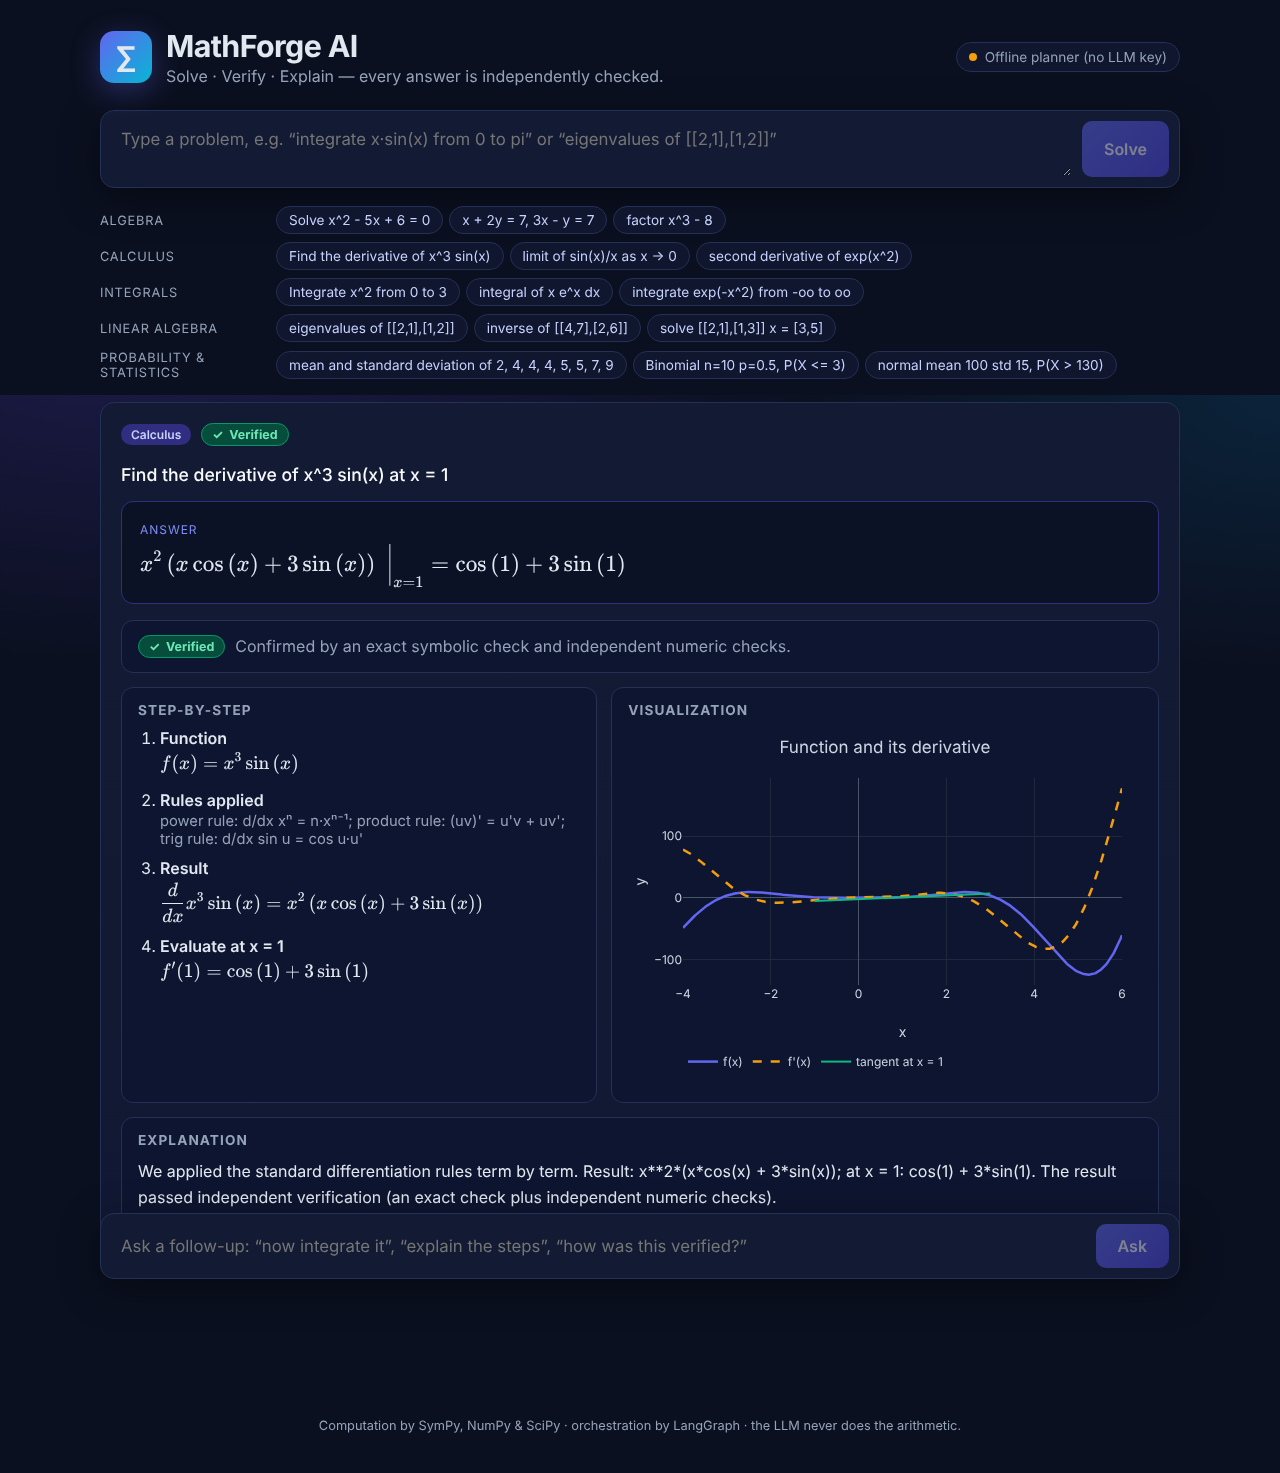
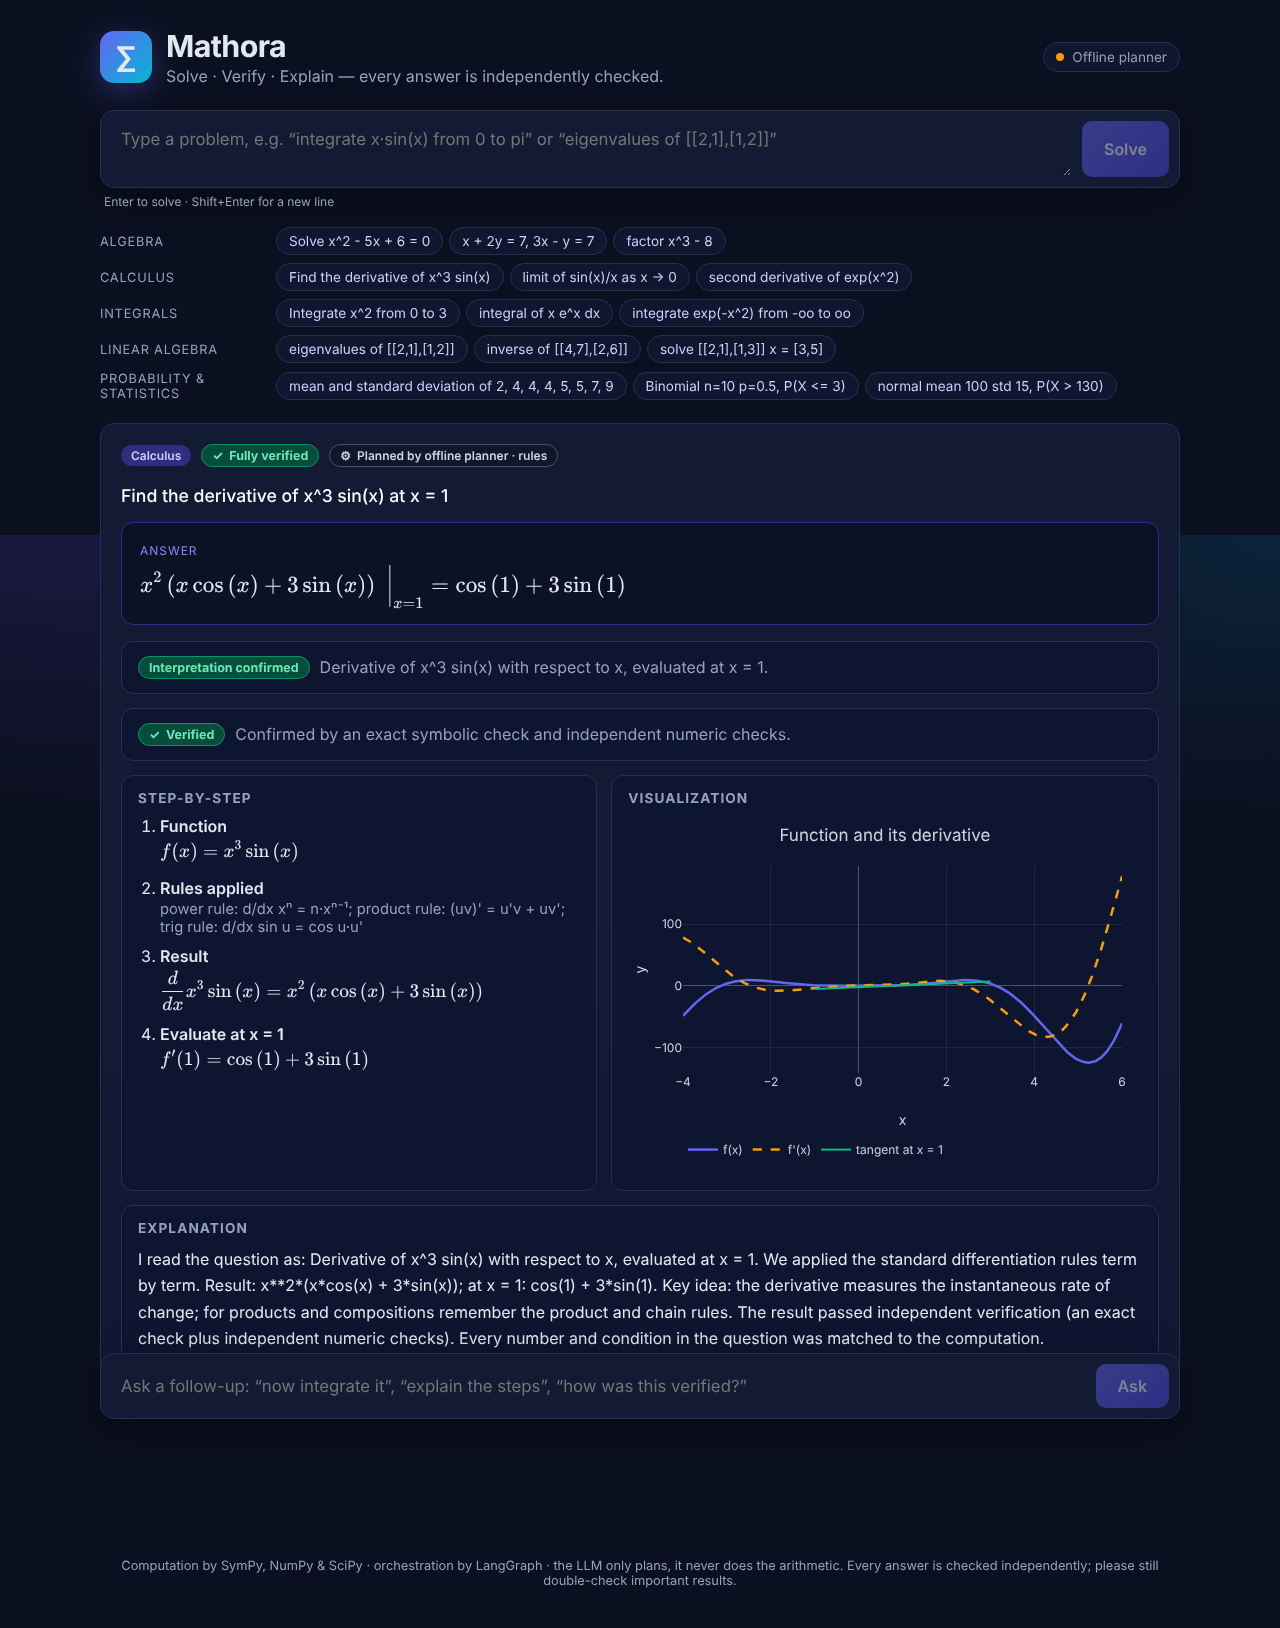
Finish renaming to Mathenza

diff --git a/frontend/src/components/Plot.tsx b/frontend/src/components/Plot.tsx
@@ -53,7 +53,7 @@ export function Plot({ figure }: { figure: PlotlyFigure }) {
         return Plotly.react(el, figure.data as Plotly.Data[], merged as Partial<Plotly.Layout>, {
           responsive: true,
           displaylogo: false,
-          displayModeBar: !narrow,
+          displayModeBar: narrow ? false : 'hover',
           modeBarButtonsToRemove: ['lasso2d', 'select2d'],
         })
       })

diff --git a/backend/eval/reports/oracle.md b/backend/eval/reports/oracle.md
@@ -1,4 +1,4 @@
-# MathForge benchmark — mode `oracle`
+# Mathora benchmark — mode `oracle`
 
 **378 benchmark items** = 308 problems (264 answerable + 44 that should be refused or clarified) + 34 tampered solutions + 36 tampered interpretations.
 Problems run in this mode: 279 (29 skipped: oracle mode cannot run natural-language-only cases (no canonical tool arguments)).

diff --git a/backend/eval/reports/rules.md b/backend/eval/reports/rules.md
@@ -1,4 +1,4 @@
-# MathForge benchmark — mode `rules`
+# Mathora benchmark — mode `rules`
 
 **378 benchmark items** = 308 problems (264 answerable + 44 that should be refused or clarified) + 34 tampered solutions + 36 tampered interpretations.
 Problems run in this mode: 308.

diff --git a/backend/eval/reports/rules_intent_layer_only.md b/backend/eval/reports/rules_intent_layer_only.md
@@ -1,4 +1,4 @@
-# MathForge benchmark — mode `rules`
+# Mathora benchmark — mode `rules`
 
 **336 benchmark items** = 266 problems (226 answerable + 40 that should be refused or clarified) + 34 tampered solutions + 36 tampered interpretations.
 Problems run in this mode: 266.

diff --git a/backend/eval/reports/rules_phase3_first_run.md b/backend/eval/reports/rules_phase3_first_run.md
@@ -1,4 +1,4 @@
-# MathForge benchmark — mode `rules`
+# Mathora benchmark — mode `rules`
 
 **378 benchmark items** = 308 problems (264 answerable + 44 that should be refused or clarified) + 34 tampered solutions + 36 tampered interpretations.
 Problems run in this mode: 308.

diff --git a/backend/eval/reports/groq.md b/backend/eval/reports/groq.md
@@ -1,4 +1,4 @@
-# MathForge benchmark — mode `groq`
+# Mathora benchmark — mode `groq`
 
 **316 benchmark items** = 246 problems (217 answerable + 29 that should be refused or clarified) + 34 tampered solutions + 36 tampered interpretations.
 Problems run in this mode: 246.

diff --git a/backend/eval/reports/groq_final.md b/backend/eval/reports/groq_final.md
@@ -1,4 +1,4 @@
-# MathForge benchmark — mode `groq`
+# Mathora benchmark — mode `groq`
 
 **378 benchmark items** = 308 problems (264 answerable + 44 that should be refused or clarified) + 34 tampered solutions + 36 tampered interpretations.
 Problems run in this mode: 308.

diff --git a/backend/eval/reports/groq_rescored_246.md b/backend/eval/reports/groq_rescored_246.md
@@ -1,4 +1,4 @@
-# MathForge benchmark — mode `groq`
+# Mathora benchmark — mode `groq`
 
 **316 benchmark items** = 246 problems (217 answerable + 29 that should be refused or clarified) + 34 tampered solutions + 36 tampered interpretations.
 Problems run in this mode: 246.

diff --git a/backend/eval/reports/groq_smoke.md b/backend/eval/reports/groq_smoke.md
@@ -1,4 +1,4 @@
-# MathForge benchmark — mode `groq`
+# Mathora benchmark — mode `groq`
 
 **95 benchmark items** = 25 problems (19 answerable + 6 that should be refused or clarified) + 34 tampered solutions + 36 tampered interpretations.
 Problems run in this mode: 25.

diff --git a/backend/eval/reports/groq_smoke_run1_schema_errors.md b/backend/eval/reports/groq_smoke_run1_schema_errors.md
@@ -1,4 +1,4 @@
-# MathForge benchmark — mode `groq`
+# Mathora benchmark — mode `groq`
 
 **95 benchmark items** = 25 problems (19 answerable + 6 that should be refused or clarified) + 34 tampered solutions + 36 tampered interpretations.
 Problems run in this mode: 25.

diff --git a/backend/eval/reports/groq_json_schema_retest.md b/backend/eval/reports/groq_json_schema_retest.md
@@ -1,4 +1,4 @@
-# MathForge benchmark — mode `groq`
+# Mathora benchmark — mode `groq`
 
 **77 benchmark items** = 7 problems (3 answerable + 4 that should be refused or clarified) + 34 tampered solutions + 36 tampered interpretations.
 Problems run in this mode: 7.

diff --git a/backend/eval/reports/rules_phase2_baseline.md b/backend/eval/reports/rules_phase2_baseline.md
@@ -1,4 +1,4 @@
-# MathForge benchmark — mode `rules`
+# Mathora benchmark — mode `rules`
 
 **300 benchmark items** = 266 problems (226 answerable + 40 that should be refused or clarified) + 34 tampered solutions.
 Problems run in this mode: 266.
